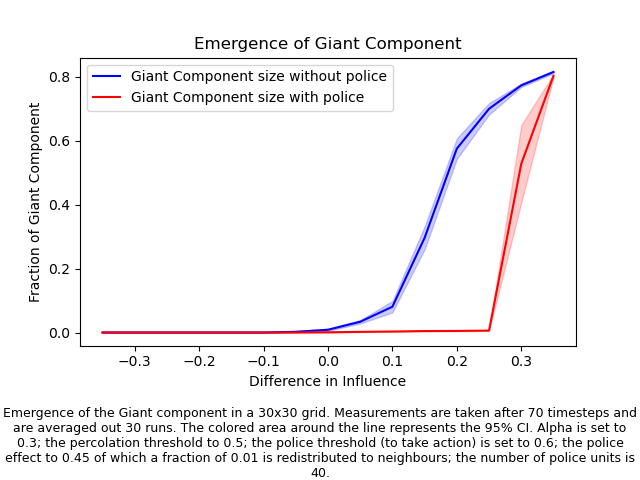
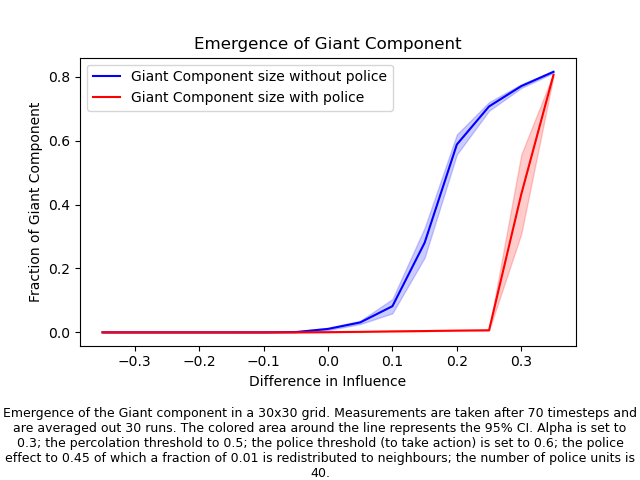
final plots with emergence

diff --git a/modules/emergence.py b/modules/emergence.py
@@ -1,0 +1,90 @@
+import numpy as np
+import matplotlib.pyplot as plt
+from scipy.stats import sem, t
+
+from modules.grid_update import update_grid_nopolice, update_grid_withpolice, giant_component
+
+
+def simulate_emergence(grid_size=(30, 30), timesteps=70, alpha=0.3, 
+                       percolation_threshold=0.5, police_threshold=0.7, police_effect=0.3, 
+                       redistribution_frac=0.7, police_units=15, num_simulation=30, title='Emergence', police=True, onlypolice=False, savefig=True): # Function to plot emergence of giant component for different influence differences
+    
+    beta = 1 - alpha
+    influence_diff_list = np.linspace(-beta / 2, beta / 2, 15) # Generate a list of influence differences (the x-axis of the plot)
+    print(influence_diff_list)
+    all_giant_fractions = []
+    average_giant_fractions_nop = []
+
+    # Generate data for the case without police
+    if not onlypolice:
+        for i in range(num_simulation): # Repeat the simulation a few times to get an average curve for the emergence graph
+            giant_fractions = []
+            for influence_diff in influence_diff_list: # Loop through the influence difference values
+                criminality = np.random.rand(*grid_size) # Reset the criminality grid
+                education = np.random.rand(*grid_size) # Reset the education grid
+                income = np.random.rand(*grid_size) # Reset the income grid
+                for _ in range(timesteps): # Run the simulation for a long enough time
+                    criminality = update_grid_nopolice(criminality, education, income, influence_diff, alpha, beta)
+                giant_fractions.append(giant_component(criminality, percolation_threshold)) # Get the size of the giant component
+            all_giant_fractions.append(giant_fractions) # Store the giant component sizes for every influence difference value
+
+        all_giant_fractions = np.array(all_giant_fractions)
+        average_giant_fractions_nop = np.mean(all_giant_fractions, axis=0) # Compute the average giant component size for every influence difference value
+        std_err = sem(all_giant_fractions, axis=0) # Compute the standard error of the mean for every influence difference value
+        error_margin_nop = std_err * t.ppf((1 + 0.95) / 2, num_simulation - 1) # Compute the error margin for the confidence interval
+
+        # Plot the size of the giant component after the fixed amount of timesteps (and a fixed threshold) for every influence difference value (with 95% CI)
+        plt.plot(influence_diff_list, average_giant_fractions_nop, color = 'b', label = 'Giant Component size without police')
+        plt.fill_between(influence_diff_list, average_giant_fractions_nop - error_margin_nop, average_giant_fractions_nop + error_margin_nop, color = 'b', alpha = 0.2)
+    else:
+        error_margin_nop = 0
+
+    # Generate data for the case with police
+    if police:
+        police_threshold = 0.6 # Set the threshold of criminality for police intervention
+        police_effect = 0.45 # Decide by how much criminality is reduced in a cell when police acts
+        redistribution_frac = 0.01 # Decide how much of the criminality is redistributed to neighbouring cells
+        police_units = 40 # Define the number of available police units
+
+        all_giant_fractions = []
+        average_giant_fractions_withp = []
+
+        for i in range(num_simulation): # Repeat the simulation a few times to get an average curve for the emergence graph
+            giant_fractions = []
+            for influence_diff in influence_diff_list: # Loop through the influence difference values
+                criminality = np.random.rand(*grid_size) # Reset the criminality grid
+                education = np.random.rand(*grid_size) # Reset the education grid
+                income = np.random.rand(*grid_size) # Reset the income grid
+                for _ in range(timesteps): # Run the simulation for a long enough time
+                    criminality = update_grid_withpolice(criminality, education, income, influence_diff, police_threshold, police_effect, redistribution_frac, police_units, grid_size, alpha, beta)[0]
+                giant_fractions.append(giant_component(criminality, percolation_threshold)) # Get the size of the giant component
+            all_giant_fractions.append(giant_fractions) # Store the giant component sizes for every influence difference value
+
+        all_giant_fractions = np.array(all_giant_fractions)
+        average_giant_fractions_withp = np.mean(all_giant_fractions, axis=0) # Compute the average giant component size for every influence difference value
+        std_err = sem(all_giant_fractions, axis=0) # Compute the standard error of the mean for every influence difference value
+        error_margin_withp = std_err * t.ppf(1.95 / 2, num_simulation - 1) # Compute the error margin for the confidence interval
+
+        # Plot the size of the giant component after the fixed amount of timesteps (and a fixed threshold) for every influence difference value (with 95% CI)
+        plt.plot(influence_diff_list, average_giant_fractions_withp, color = 'r', label = 'Giant Component size with police')
+        plt.fill_between(influence_diff_list, average_giant_fractions_withp - error_margin_withp, average_giant_fractions_withp + error_margin_withp, color = 'r', alpha = 0.2)
+
+    plt.title('Emergence of Giant Component')
+    plt.xlabel('Difference in Influence')
+    plt.ylabel('Fraction of Giant Component')
+    plt.subplots_adjust(bottom=0.28)
+
+    if police:
+        plt.figtext(0.5, 0.01, f'Emergence of the Giant component in a {grid_size[0]}x{grid_size[1]} grid. Measurements are taken after {timesteps} timesteps and are averaged out {num_simulation} runs. The colored area around the line represents the 95% CI. Alpha is set to {alpha}; the percolation threshold to {percolation_threshold}; the police threshold (to take action) is set to {police_threshold}; the police effect to {police_effect} of which a fraction of {redistribution_frac} is redistributed to neighbours; the number of police units is {police_units}.',
+                    wrap=True, horizontalalignment='center', fontsize=9)
+    else:
+        plt.figtext(0.5, 0.01, f'Emergence of the Giant component in a {grid_size[0]}x{grid_size[1]} grid. Measurements are taken after {timesteps} timesteps and are averaged out {num_simulation} runs. The colored area around the line represents the 95% CI. Alpha is set to {alpha}; the percolation threshold to {percolation_threshold}. No police intervention is considered.',
+                    wrap=True, horizontalalignment='center', fontsize=9)
+                
+    plt.legend()
+
+    if savefig:
+        plt.savefig(f'figs/{title}.png')
+        plt.show()
+
+    return average_giant_fractions_nop, average_giant_fractions_withp, error_margin_nop, error_margin_withp

diff --git a/emergence_different_police_amounts.py b/emergence_different_police_amounts.py
@@ -1,0 +1,59 @@
+import numpy as np
+import matplotlib.pyplot as plt
+
+from modules.emergence import simulate_emergence
+
+# To explain the variance in the red line, we plot the emergence of the giant component for different amounts of police units
+
+# Define parameters common to every simulation and a list of police units and grid sizes
+all_y_withp = []
+all_err_nop = []
+all_err_withp = []
+alpha = 0.3
+beta = 1 - alpha
+timesteps = 70
+percolation_threshold = 0.5
+police_threshold = 0.7
+police_effect = 0.3, 
+redistribution_frac = 0.7
+police_units = [100, 1000, 3000, 5000]
+side_size = [30, 50, 70, 90]
+num_simulation = 30
+influence_diff_list = np.linspace(-beta / 2, beta / 2, 15)
+
+for ind, units in enumerate(police_units):
+
+    onlypolice = False if ind == 0 else True
+
+    avg_nop, avg_withp, err_nop, err_withp = simulate_emergence(grid_size=(side_size[ind], side_size[ind]), timesteps=timesteps, alpha=alpha, 
+                       percolation_threshold=percolation_threshold, police_threshold=police_threshold, police_effect=police_effect, 
+                       redistribution_frac=redistribution_frac, police_units=units, num_simulation=num_simulation, title=f'Emergence_grid_units_{units}', police=True, onlypolice=onlypolice, savefig=False)
+    
+    if ind == 0:
+        plot_avg_nop, plot_err_nop = avg_nop, err_nop
+    all_y_withp.append(avg_withp)
+    all_err_withp.append(err_withp)
+
+handles, labels = [], []
+
+for ind in range(len(police_units)):
+
+    if ind == 0:
+        line1, = plt.plot(influence_diff_list, plot_avg_nop, label=f'No Police', color='b')
+        plt.fill_between(influence_diff_list, plot_avg_nop - plot_err_nop, plot_avg_nop + plot_err_nop, color = 'b', alpha = 0.2)
+    line2, = plt.plot(influence_diff_list, all_y_withp[ind], label=f'With Police', color='r')
+    plt.fill_between(influence_diff_list, all_y_withp[ind] - all_err_withp[ind], all_y_withp[ind] + all_err_withp[ind], color = 'r', alpha = 0.2)
+
+    if ind == 0:
+        handles.extend([line1, line2])
+        labels.extend(["No Police", "With Police"])
+
+plt.xlabel('Difference in Influence')
+plt.ylabel('Fraction of Giant Component')
+plt.title('Data Collapse for Different Amounts of Police Units')
+plt.legend(handles, labels)
+plt.subplots_adjust(bottom=0.28)
+plt.figtext(0.5, 0.01, f'Emergence of the Giant component in a {side_size[0]}x{side_size[0]} grid (for the blue line). The cases with police are simulated on grids with side lentgh of {police_units} (red lines). Measurements are taken after {timesteps} timesteps and are averaged out {num_simulation} runs. The colored area around the line represents the 95% CI. Alpha is set to {alpha}; the percolation threshold to {percolation_threshold}; the police threshold (to take action) is set to {police_threshold}; the police effect to {police_effect} of which a fraction of {redistribution_frac} is redistributed to neighbours; the number of police units is {police_units}.',
+                            wrap=True, horizontalalignment='center', fontsize=9)
+plt.savefig('figs/different_police_amounts_emergence.png')
+plt.show()

diff --git a/emergence_different_grid_sizes.py b/emergence_different_grid_sizes.py
@@ -1,0 +1,56 @@
+import numpy as np
+import matplotlib.pyplot as plt
+
+from modules.emergence import simulate_emergence
+
+# For robustness, we analyze the emergence of the giant component for different grid sizes
+
+# Define parameters common to every grid size and a list of sizes
+all_y_nop = []
+all_y_withp = []
+all_err_nop = []
+all_err_withp = []
+side_size = [30, 50, 70, 90]
+alpha = 0.3
+beta = 1 - alpha
+timesteps = 70
+percolation_threshold = 0.5
+police_threshold = 0.7
+police_effect = 0.3, 
+redistribution_frac = 0.7
+police_units = 30
+num_simulation = 30
+influence_diff_list = np.linspace(-beta / 2, beta / 2, 15)
+
+for L in side_size: # Plot the emergence curve for different grids of size LxL
+
+    avg_nop, avg_withp, err_nop, err_withp = simulate_emergence(grid_size=(L, L), timesteps=timesteps, alpha=alpha, 
+                       percolation_threshold=percolation_threshold, police_threshold=police_threshold, police_effect=police_effect, 
+                       redistribution_frac=redistribution_frac, police_units=police_units, num_simulation=num_simulation, title=f'Emergence_grid_{L}')
+    
+    all_y_nop.append(avg_nop)
+    all_y_withp.append(avg_withp)
+    all_err_nop.append(err_nop)
+    all_err_withp.append(err_withp)
+
+handles, labels = [], []
+
+for ind in range(len(side_size)): 
+    line1, = plt.plot(influence_diff_list, all_y_nop[ind], label=f'No Police', color='b')
+    plt.fill_between(influence_diff_list, all_y_nop[ind] - all_err_nop[ind], all_y_nop[ind] + all_err_nop[ind], color = 'b', alpha = 0.2)
+    line2, = plt.plot(influence_diff_list, all_y_withp[ind], label=f'With Police', color='r')
+    plt.fill_between(influence_diff_list, all_y_withp[ind] - all_err_withp[ind], all_y_withp[ind] + all_err_withp[ind], color = 'r', alpha = 0.2)
+
+    if ind == 0:
+        handles.extend([line1, line2])
+        labels.extend(["No Police", "With Police"])
+
+plt.xlabel('Difference in Influence')
+plt.ylabel('Fraction of Giant Component')
+plt.title('Data Collapse for Different Grid Sizes')
+plt.legend(handles, labels)
+plt.subplots_adjust(bottom=0.28)
+plt.figtext(0.5, 0.01, f'Emergence of the Giant component in different size grids (for reference, the side of each grid is {side_size} going from right to left, for both colors). Measurements are taken after {timesteps} timesteps and are averaged out {num_simulation} runs. The colored area around the line represents the 95% CI. Alpha is set to {alpha}; the percolation threshold to {percolation_threshold}; the police threshold (to take action) is set to {police_threshold}; the police effect to {police_effect} of which a fraction of {redistribution_frac} is redistributed to neighbours; the number of police units is {police_units}.',
+                            wrap=True, horizontalalignment='center', fontsize=9)
+plt.savefig('figs/different_grid_size_emergence.png')
+plt.show()
